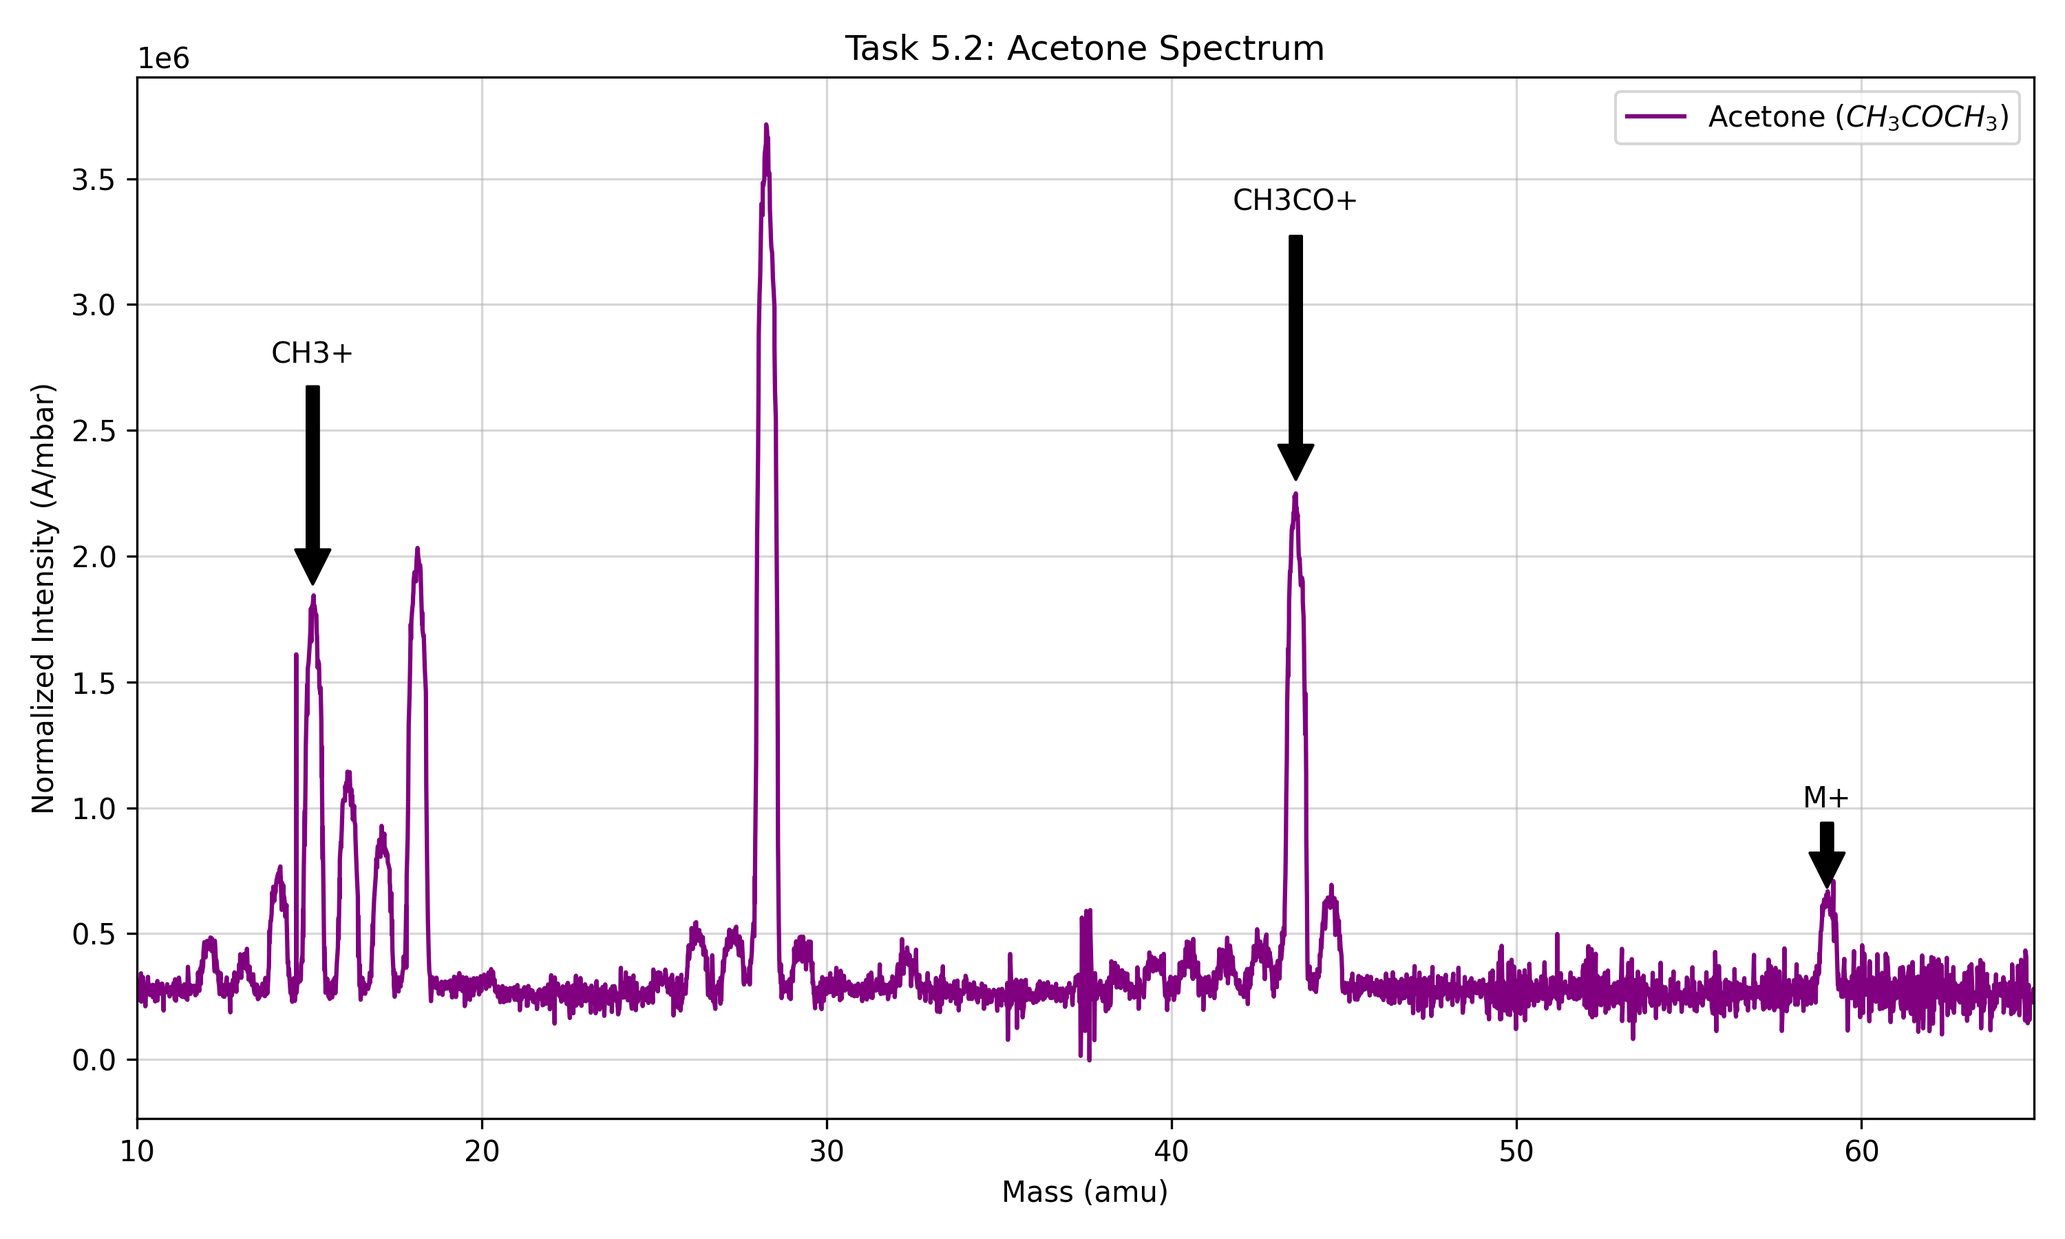
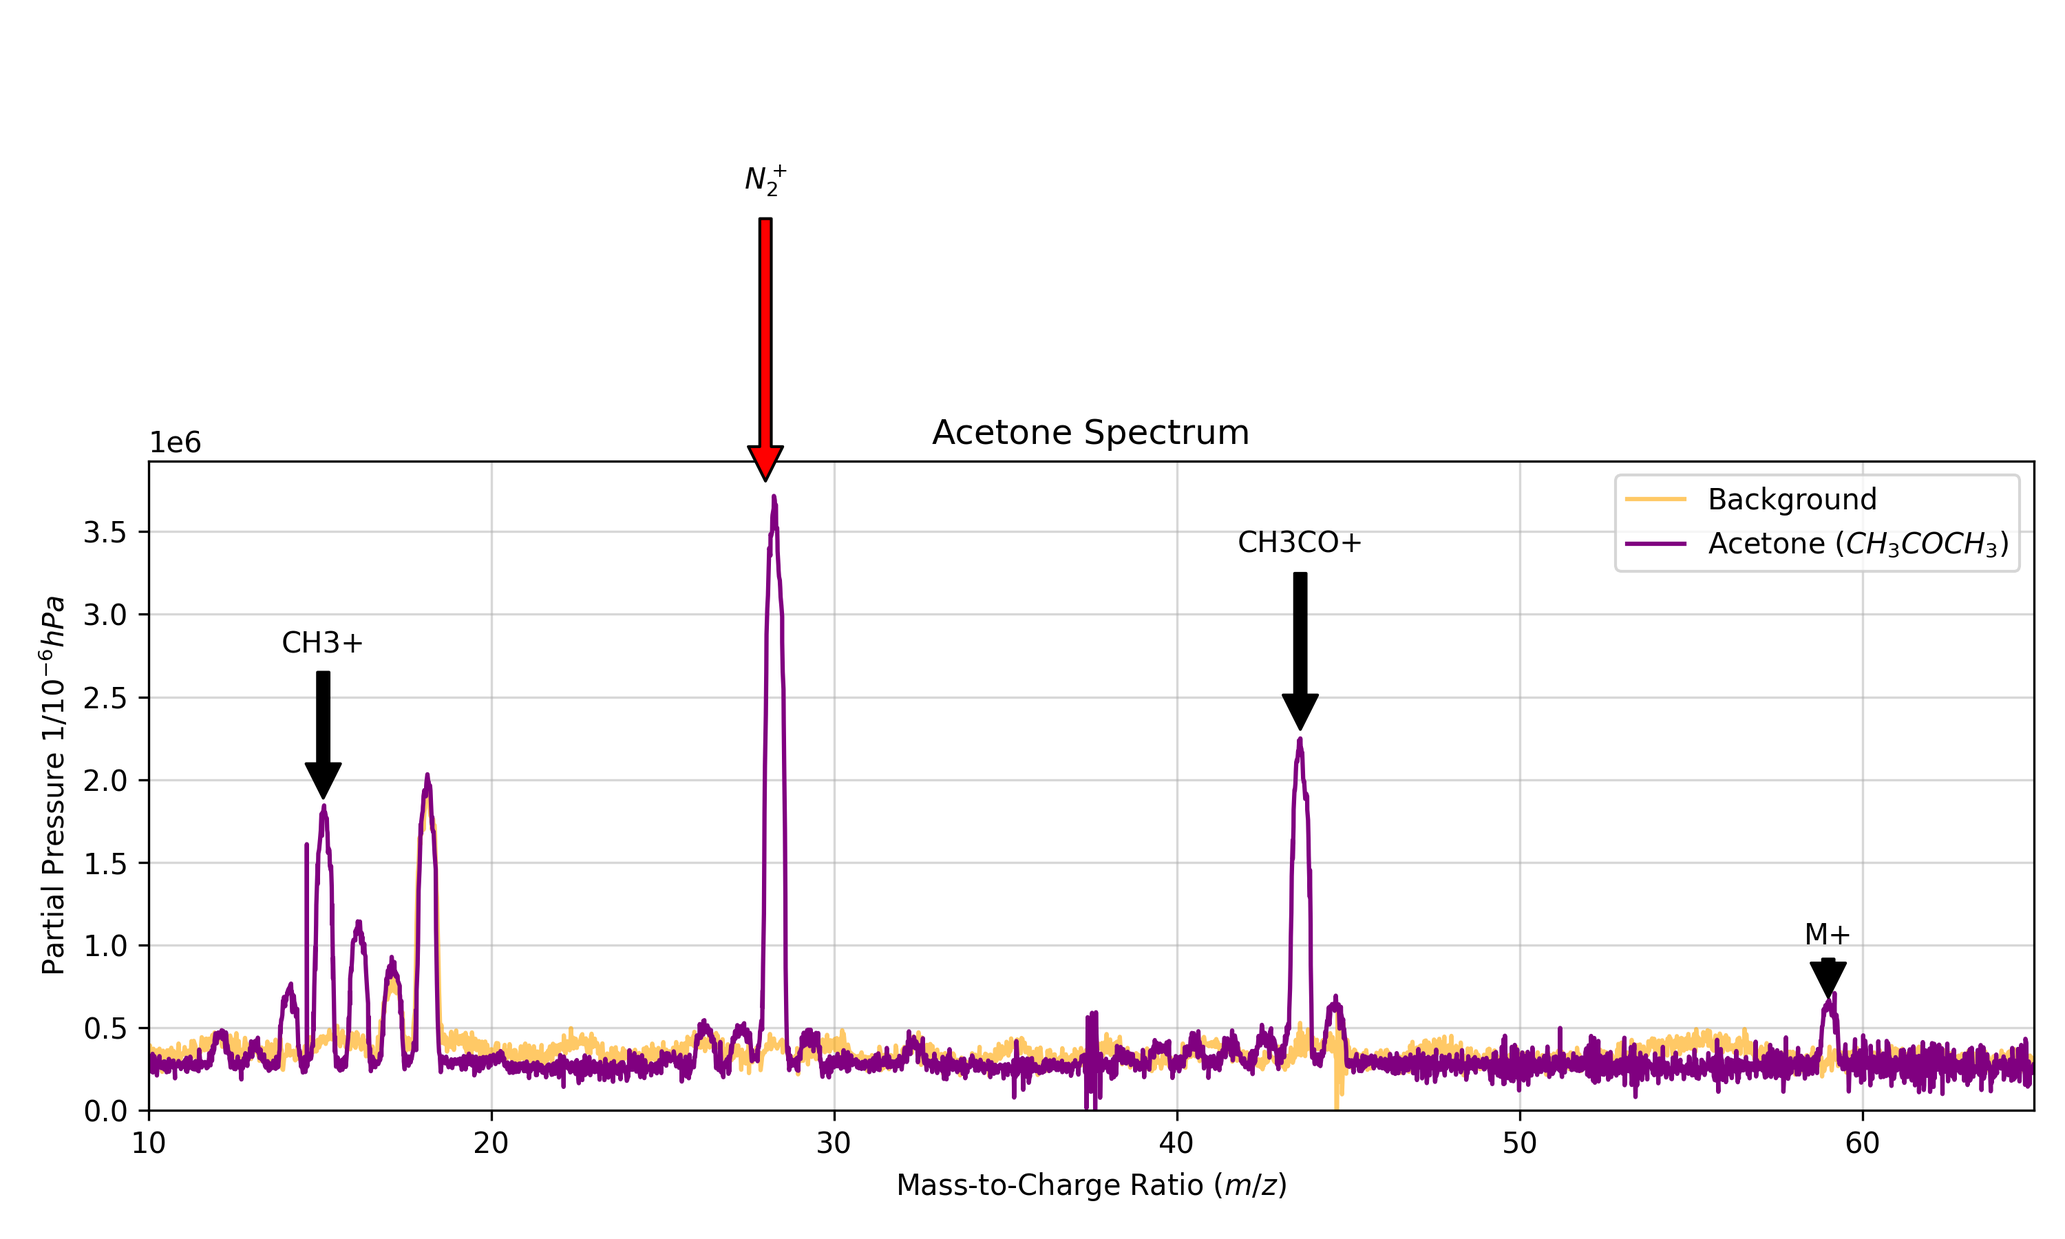
added plots

diff --git a/Evaluation/Evaluation_QMS.tex b/Evaluation/Evaluation_QMS.tex
@@ -300,7 +300,7 @@ This concept is illustrated in Fig.~\ref{fig:qmf_stability_demtroeder}.
   \caption{Mathieu stability diagram and working line principle for a QMF.
     (a) Overview of stability regions in the $(a,b)$ plane, where stability is obtained only if the motion remains bounded in both transverse directions.
     (b) Enlarged view of the first stability region, which is used for mass filtering, together with a straight working line through the origin.
-  In the notation of the source, the horizontal axis is labeled $b$ (corresponding to $q$ in this report), and the second transverse coordinate is labeled $z$ (corresponding to $y$ in this report).
+    In the notation of the source, the horizontal axis is labeled $b$ (corresponding to $q$ in this report), and the second transverse coordinate is labeled $z$ (corresponding to $y$ in this report).
   Adapted from~\cite{demtroeder_atome_molekuele_2005}.}
   \label{fig:qmf_stability_demtroeder}
 \end{figure}
@@ -329,7 +329,7 @@ This is illustrated in Fig.~\ref{fig:qmf_resolution}, where scanning along the w
   \centering
   \includegraphics[width=0.85\linewidth]{../resources/figures/qmf_resolution.png}
   \caption{Working line principle and resolution in a QMF.
-  Scanning $U$ and $V$ along a straight working line transmits different ion masses $m_1<m_2<m_3$, while the transmitted interval $\Delta m$ depends on the slope.
+    Scanning $U$ and $V$ along a straight working line transmits different ion masses $m_1<m_2<m_3$, while the transmitted interval $\Delta m$ depends on the slope.
   In the notation of the source, the voltages are labeled $U_{DC}$ and $U_{AC}$ (corresponding to $U$ and $V$ in this report), and the working line condition is written as $U_{DC}/U_{AC} = a_x/2b_x$ (corresponding to $a/q = 2U/V$ in this report)~\cite{rwth_mass_spectrometry_2024}.}
   \label{fig:qmf_resolution}
 \end{figure}
@@ -394,7 +394,7 @@ Instead of a single ``acetone line'', the molecular ion appears together with se
 % --- Experimental Setup ---
 \section{Experimental Setup}
 
-This section describes the vacuum system, gas handling, and the QMS used for all measurements in this experiment.  
+This section describes the vacuum system, gas handling, and the QMS used for all measurements in this experiment.
 The setup is summarized schematically in Fig.~\ref{fig:setup_overview}.
 
 \subsection{Vacuum System and Gas Handling}
@@ -403,11 +403,11 @@ All measurements are performed in a stainless-steel vacuum chamber (recipient) t
 High-vacuum pumping is provided by a turbomolecular pump mounted directly on the recipient and backed by a mechanical fore-vacuum (membrane) pump.
 The turbo pump transfers momentum from rapidly rotating rotor blades to gas molecules and drives them toward the foreline, while the membrane pump removes this gas by periodic volume changes of a diaphragm chamber.
 
-Test gases are supplied from three reservoirs (acetone, ethanol, argon) and from ambient air via a dosing manifold.  
+Test gases are supplied from three reservoirs (acetone, ethanol, argon) and from ambient air via a dosing manifold.
 Each source can be isolated individually and feeds into a common manifold section.
 For flushing between gases, this manifold can be evacuated with a separate rotary vane pump to remove residual gas in the lines.
 Admission to the recipient is then controlled by an isolation valve followed by a fine dosing (needle) valve at the chamber inlet.
-During dosing, the needle valve is opened gradually while pumping continues, so the pressure rises to a steady value where gas inflow and pumping balance.  
+During dosing, the needle valve is opened gradually while pumping continues, so the pressure rises to a steady value where gas inflow and pumping balance.
 A pressure gauge on the manifold monitors the line pressure during flushing and dosing.
 
 \vspace{1em}
@@ -456,7 +456,7 @@ With the settings used here ($U_{\mathrm{FR}}=113\,\mathrm{V}$, $U_{\mathrm{FA}}
   \centering
   \includegraphics[width=0.98\linewidth]{../resources/figures/schematic_ion_energy.png}
   \caption{Potential/energy scheme of the electron-impact source and injection region.
-  Electrons emitted at the cathode (KA) are focused by the Wehnelt electrode (W) and accelerated into the formation region (FR) for ionization.
+    Electrons emitted at the cathode (KA) are focused by the Wehnelt electrode (W) and accelerated into the formation region (FR) for ionization.
   The resulting ions are then extracted toward the entrance aperture (EB) and retarded to the field-axis potential $U_{\mathrm{FA}}$ before entering the quadrupole rods~\cite{QMSAnleitung}.}
   \label{fig:setup_potentials}
 \end{figure}
@@ -482,8 +482,8 @@ The relevant front-panel controls are shown in Fig.~\ref{fig:qms_control_panels}
   \centering
   \includegraphics[width=1.0\linewidth]{../resources/figures/qms_control_panels.jpg}
   \caption{Front panels of the QMS electronics used in the experiment.
-  Top: Balzers QMG 111B controller with emission control, electrometer range, scan speed and the resolution knob. 
-  Bottom: auxiliary supply unit providing the adjustable source voltages $(U_{\mathrm{KA}}, U_{\mathrm{FR}}, U_{\mathrm{FA}}$) \\.
+    Top: Balzers QMG 111B controller with emission control, electrometer range, scan speed and the resolution knob.
+    Bottom: auxiliary supply unit providing the adjustable source voltages $(U_{\mathrm{KA}}, U_{\mathrm{FR}}, U_{\mathrm{FA}}$) \\.
   (Own photograph.)}
   \label{fig:qms_control_panels}
 \end{figure}
@@ -498,7 +498,7 @@ Then this section was evacuated by opening the valve to the rotary vane pump and
 Next, the reservoir was opened again briefly, and the second line section up to the dosing valve was flushed by briefly opening the connecting valve between the two line sections, after which it was closed again.
 This sequence was repeated for at least three cycles, so that the second line section was left pre-filled with the selected gas before dosing.
 
-For dosing into the chamber, all valves in the inlet system were closed again, in particular the connecting valve between the two line sections, which served as a safety isolation.  
+For dosing into the chamber, all valves in the inlet system were closed again, in particular the connecting valve between the two line sections, which served as a safety isolation.
 The chamber was then dosed only via the fine dosing valve at the recipient inlet, which was opened gradually while pumping continued until the pressure rose to a steady operating value around \(10^{-5}\,\mathrm{mbar}\).
 During dosing, care was taken that the pressure did not rise abruptly into the \(10^{-4}\,\mathrm{mbar}\) regime, since excessive pressure can endanger the pumping system and violates the recommended operating limits.
 The gas inlet manifold and the two line sections used for flushing and dosing are shown in Fig.~\ref{fig:gas_manifold_photo}.
@@ -508,7 +508,7 @@ The gas inlet manifold and the two line sections used for flushing and dosing ar
   \centering
   \includegraphics[width=0.95\linewidth]{../resources/figures/gas_manifold.jpg}
   \caption{Gas inlet manifold for flushing and dosing.
-  Three reservoirs (acetone, ethanol, argon) and an ambient-air inlet feed into a common manifold with pressure gauge, evacuation connection to a rotary vane pump, and a fine dosing (needle) valve to the recipient.
+    Three reservoirs (acetone, ethanol, argon) and an ambient-air inlet feed into a common manifold with pressure gauge, evacuation connection to a rotary vane pump, and a fine dosing (needle) valve to the recipient.
   (Own photograph.)}
   \label{fig:gas_manifold_photo}
 \end{figure}
@@ -537,20 +537,19 @@ The sequence was therefore taken from the lowest acceleration voltage (small $U_
 
 \subsection{Shutdown}
 
-After completing all measurements, emission was switched to \texttt{OFF} first, then the external voltage supplies were switched off, and finally the QMS control unit was turned off, following the recommended shutdown order.  
+After completing all measurements, emission was switched to \texttt{OFF} first, then the external voltage supplies were switched off, and finally the QMS control unit was turned off, following the recommended shutdown order.
 
 % --- Results ---
 \section{Results}
 
-\subsection{Argon Spectrum (with Background Subtraction)}
+\subsection{Argon Spectrum}
+A measurement of the background spectrum was recorded to implement a background subtraction to the recorded spectrum of the ionized Argon. First, both spectrum were normalized by pressure and then the background spectrum was subtracted from the Argon spectrum (Figure~\ref{fig:argon}). The effect of the substraction is substantially noticeable in the $H_2O^+$ peak ($18m/z$), which appears almost suppresed in the corrected spectrum of the Argon. We can appreciate some potential impurities around the $28m/z$ range ($N_2^+$), and the $36m/z$ range.
 
-\begin{itemize}
-  \item Plot the argon spectrum and normalize it to the total chamber pressure
-  \item \textit{Pressure normalization:} multiply the full intensity axis by a constant factor so that the plotted signal becomes $I/p$ (e.g.\ $I_\mathrm{norm}(m/z)=I(m/z)/p_\mathrm{end}$), i.e.\ divide every intensity value in the spectrum by the measured total pressure of that scan (the $p$ value in the filename)
-  \item Assign the main argon-related peaks (Ar$^+$, possible Ar$^{2+}$) and visible impurities, and compare qualitatively to the provided reference spectrum
-  \item Background subtraction: scale the residual-gas spectrum to match a chosen reference peak (e.g.\ H$_2$O$^+$) and subtract it from the argon spectrum, then replot and describe which features were removed or improved
-\end{itemize}
-
+\begin{figure}
+  \centering
+  \includegraphics[width=1.0\linewidth]{../resources/task_5_1_argon.png}
+  \caption{Corrected Argon spectrum, background spectrum, and recorded background spectrum. The intensities were normalized according to their respective pressure values and the spectrums were matched using the $H_2O^+$ peak as reference. }\label{fig:argon}
+\end{figure}
 \subsection{Acetone Spectrum}
 
 \begin{itemize}

diff --git a/resources/task_5_3.py b/resources/task_5_3.py
@@ -1,4 +1,5 @@
 # task_5_3.py
+import numpy as np
 import matplotlib.pyplot as plt
 import os
 from config import PRESSURE, DATA_DIR
@@ -6,13 +7,20 @@ from utils import load_spectrum, get_peak_height_robust
 
 def run_task_5_3():
     print("--- TASK 5.3: Ethanol ---")
+    file_bg = 'FP10_qmf260114_003_bg_sp10_em-10_p54e-6.txt'
     file_eth = 'FP10_qmf260114_009_eth_sp10_em-11_p16e-5.txt'
+    m_bg, i_bg = load_spectrum(os.path.join(DATA_DIR, file_bg))
     m, i = load_spectrum(os.path.join(DATA_DIR, file_eth))
+
     if len(m) == 0: return
 
+    i_bg_norm = i_bg / PRESSURE['bg']
     i_norm = i / PRESSURE['eth']
 
-    plt.figure(figsize=(10, 6))
+    i_bg_interp = np.interp(m, m_bg, i_bg_norm)
+
+    plt.figure(figsize=(10, 6))    
+    plt.plot(m, i_bg_interp, color='orange', alpha=0.6, label='Background')
     plt.plot(m, i_norm, color='green', label='Ethanol Sample')
 
     # Annotations
@@ -22,20 +30,17 @@ def run_task_5_3():
         (31, '$CH_2OH^+$\n(31)')
     ]
     
-    for mass, label in peaks:
+    for mass, txt in peaks:
         h = get_peak_height_robust(m, i_norm, mass, 1.0)
-        plt.axvline(x=mass, color='green', linestyle=':', alpha=0.5)
-        plt.text(mass, h*1.05, label, ha='center', va='bottom', color='green')
+        if h > 0:
+            plt.annotate(txt, xy=(mass, h), xytext=(mass, h*1.5),
+                         arrowprops=dict(facecolor='black', shrink=0.05), ha='center')
 
-    # Mark Air Contamination if visible
-    h_28 = get_peak_height_robust(m, i_norm, 28.0, 1.0)
-    if h_28 > 0.5 * i_norm.max(): # Only if large
-        plt.text(28, h_28*1.05, 'Air ($N_2$)', color='red', ha='center')
-
-    plt.xlim(20, 50)
-    plt.title('Task 5.3: Ethanol Spectrum ($C_2H_5OH$)')
-    plt.xlabel('Mass (amu)')
-    plt.ylabel('Normalized Intensity (A/mbar)')
+    plt.xlim(10, 50)
+    plt.ylim(0)
+    plt.title('Ethanol Spectrum')    
+    plt.xlabel('Mass-to-Charge Ratio ($m/z$)')
+    plt.ylabel('Partial Pressure $1/10^{-6}hPa$')
     plt.legend()
     plt.grid(True, alpha=0.4)
     plt.tight_layout()

diff --git a/resources/task_5_2.py b/resources/task_5_2.py
@@ -1,4 +1,5 @@
 # task_5_2.py
+import numpy as np
 import matplotlib.pyplot as plt
 import os
 from config import PRESSURE, DATA_DIR
@@ -6,28 +7,41 @@ from utils import load_spectrum, get_peak_height_robust
 
 def run_task_5_2():
     print("--- TASK 5.2: Acetone ---")
+    file_bg = 'FP10_qmf260114_003_bg_sp10_em-10_p54e-6.txt'
     file_ac = 'FP10_qmf260114_007_ac_sp10_em-11_p14e-5.txt'
+    m_bg, i_bg = load_spectrum(os.path.join(DATA_DIR, file_bg))
     m, i = load_spectrum(os.path.join(DATA_DIR, file_ac))
     
     if len(m) == 0: return
 
+    i_bg_norm = i_bg / PRESSURE['bg']
     i_norm = i / PRESSURE['ac']
     
+    i_bg_interp = np.interp(m, m_bg, i_bg_norm)
+    
     plt.figure(figsize=(10, 6))
+    plt.plot(m, i_bg_interp, color='orange', alpha=0.6, label='Background')
     plt.plot(m, i_norm, color='purple', label='Acetone ($CH_3COCH_3$)')
     
     # Annotate Fragments
     peaks = [(59, 'M+'), (43.6, 'CH3CO+'), (15.1, 'CH3+')]
+    impurities = [(28, '$N_2^+$')]
     for mass, txt in peaks:
         h = get_peak_height_robust(m, i_norm, mass, 1.0)
         if h > 0:
             plt.annotate(txt, xy=(mass, h), xytext=(mass, h*1.5),
                          arrowprops=dict(facecolor='black', shrink=0.05), ha='center')
+    for mass, txt in impurities:
+        h = get_peak_height_robust(m, i_norm, mass, 1.0)
+        if h > 0:
+            plt.annotate(txt, xy=(mass, h), xytext=(mass, h*1.5),
+                         arrowprops=dict(facecolor='red', shrink=0.05), ha='center')
 
     plt.xlim(10, 65)
-    plt.title('Task 5.2: Acetone Spectrum')
-    plt.xlabel('Mass (amu)')
-    plt.ylabel('Normalized Intensity (A/mbar)')
+    plt.ylim(0)
+    plt.title('Acetone Spectrum')
+    plt.xlabel('Mass-to-Charge Ratio ($m/z$)')
+    plt.ylabel('Partial Pressure $1/10^{-6}hPa$')
     plt.legend()
     plt.grid(True, alpha=0.5)
     plt.tight_layout()

diff --git a/resources/task_5_5.py b/resources/task_5_5.py
@@ -1,0 +1,55 @@
+import numpy as np
+import matplotlib.pyplot as plt
+import os
+from config import DATA_DIR
+from utils import load_spectrum
+
+# --- CONFIGURATION ---
+FILES = [
+    # Label, Filename, Gain (Electrometer Range)
+    ('Res 6 (High Res)', 'FP10_qmf260114_012_air_sp10_em-10_p15e-5_res6.txt', 1e-10),
+    ('Res 5',            'FP10_qmf260114_013_air_sp10_em-10_p15e-5_res5.txt', 1e-10),
+    ('Res 4',            'FP10_qmf260114_014_air_sp10_em-10_p15e-5_res4.txt', 1e-10),
+    ('Res 3',            'FP10_qmf260114_015_air_sp10_em-9_p15e-5_res3.txt',  1e-9),
+    ('Res 2 (Low Res)',  'FP10_qmf260114_016_air_sp10_em-9_p15e-5_res2.txt',  1e-9),
+]
+
+def run_resolution_overlay():
+    print("--- TASK 5.5: Resolution Overlay ---")
+    
+    plt.figure(figsize=(10, 6))
+    
+    for label, filename, gain in FILES:
+        path = os.path.join(DATA_DIR, filename)
+        
+        # Load Data
+        m, i_raw = load_spectrum(path)
+        
+        if len(m) == 0:
+            print(f"Warning: Empty file {filename}")
+            continue
+        
+        i_amps = i_raw * gain 
+        ground_level = np.percentile(i_amps, 10)
+        i_normalized = i_amps - ground_level
+
+        plt.plot(m, i_normalized, label=label, lw=1.2, alpha=0.8)
+
+    # Formatting
+    plt.title('Air Spectrum: Resolution Comparison')
+    plt.xlabel('Mass-to-Charge Ratio ($m/z$)')
+    plt.ylabel('Relative Intensity')
+    
+    plt.xlim(10,48)
+    plt.ylim(0)
+    plt.legend()
+    plt.grid(True, which="both", ls="-", alpha=0.4)
+    plt.tight_layout()
+    
+    save_path = 'task_5_5_resolution_overlay.png'
+    plt.savefig(save_path, dpi=300)
+    print(f"  > Saved: {save_path}")
+    plt.show()
+
+if __name__ == "__main__":
+    run_resolution_overlay()

diff --git a/resources/utils.py b/resources/utils.py
@@ -45,3 +45,48 @@ def get_peak_height_robust(mass, intensity, target_mass, search_window):
     peak_masses = m_local[peaks]
     idx = np.argmin(np.abs(peak_masses - target_mass))
     return float(i_local[peaks[idx]])
+
+def calculate_fwhm(mass, intensity, target_mass, window=1.5):
+    """
+    Calculates Full Width at Half Maximum (FWHM) for a peak near target_mass.
+    Returns: (peak_mass, fwhm, peak_height)
+    """
+    # 1. Mask data to local area
+    mask = (mass > target_mass - window) & (mass < target_mass + window)
+    if not np.any(mask): return None, None, None
+    
+    m_loc = mass[mask]
+    i_loc = intensity[mask]
+    
+    # 2. Find Max
+    i_max = np.max(i_loc)
+    if i_max == 0: return None, None, None
+    m_max = m_loc[np.argmax(i_loc)]
+    
+    # 3. Find Half Max
+    half_max = i_max / 2.0
+    
+    # 4. Find crossings (Linear Interpolation)
+    # We look for where intensity - half_max changes sign
+    diff = i_loc - half_max
+    crossings = np.where(np.diff(np.sign(diff)))[0]
+    
+    if len(crossings) < 2:
+        return m_max, 0.0, i_max # Peak too narrow to resolve
+        
+    # Take the two crossings surrounding the peak
+    # (Simplified: just take first and last in window if multiple noise crossings)
+    left_idx = crossings[0]
+    right_idx = crossings[-1]
+    
+    def get_x_at_y(idx, target_y):
+        y1, y2 = i_loc[idx], i_loc[idx+1]
+        x1, x2 = m_loc[idx], m_loc[idx+1]
+        # Linear interp formula
+        if y2 == y1: return x1
+        return x1 + (target_y - y1) * (x2 - x1) / (y2 - y1)
+
+    m_left = get_x_at_y(left_idx, half_max)
+    m_right = get_x_at_y(right_idx, half_max)
+    
+    return m_max, (m_right - m_left), i_max

diff --git a/resources/task_5_1.py b/resources/task_5_1.py
@@ -50,9 +50,10 @@ def run_task_5_1():
     plt.text(19, h_20*1.1, '$Ar^{2+}$', ha='center', va='bottom', color='blue')
     
     plt.xlim(10, 50)
-    plt.title('Task 5.1: Argon Spectrum (BG Subtracted)')
-    plt.xlabel('Mass (amu)')
-    plt.ylabel('Normalized Intensity (A/mbar)')
+    plt.ylim(0)
+    plt.title('Argon Spectrum')
+    plt.xlabel('Mass-to-Charge Ratio ($m/z$)')
+    plt.ylabel('Partial Pressure $1/10^{-6}hPa$')
     plt.legend()
     plt.grid(True, alpha=0.5)
     plt.tight_layout()

diff --git a/resources/task_5_4.py b/resources/task_5_4.py
@@ -32,9 +32,9 @@ def run_task_5_4():
             plt.text(mass, h*1.05, label, ha='center', va='bottom', color='red', fontsize=10)
 
     plt.xlim(10, 50)
-    plt.title('Task 5.4: Air Spectrum Composition')
-    plt.xlabel('Mass (amu)')
-    plt.ylabel('Normalized Intensity (A/mbar)')
+    plt.title('Air Spectrum Composition')
+    plt.xlabel('Mass-to-Charge Ratio ($m/z$)')
+    plt.ylabel('Partial Pressure $1/10^{-6}hPa$')
     plt.legend()
     plt.grid(True, alpha=0.4)
     plt.tight_layout()
